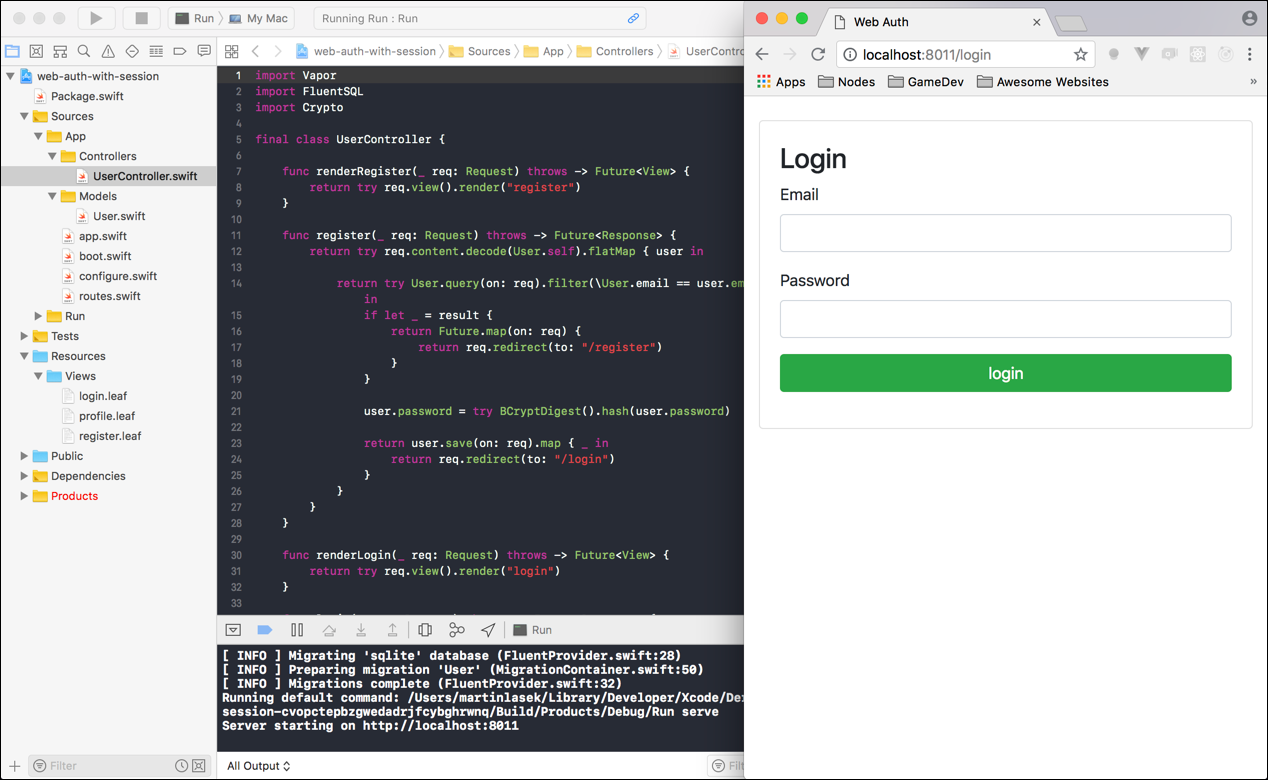
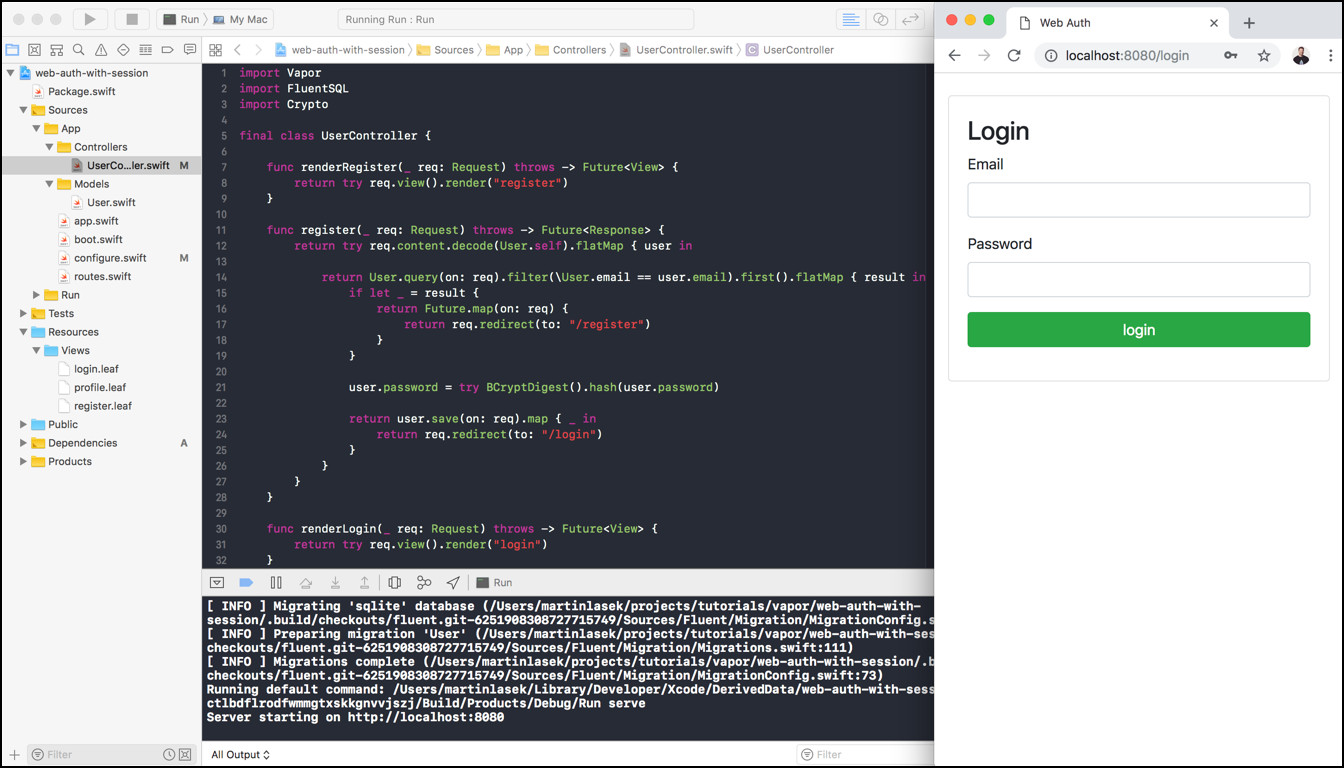
updated port configuration

diff --git a/Sources/App/Controllers/UserController.swift b/Sources/App/Controllers/UserController.swift
@@ -11,7 +11,7 @@ final class UserController {
     func register(_ req: Request) throws -> Future<Response> {
         return try req.content.decode(User.self).flatMap { user in
 
-            return try User.query(on: req).filter(\User.email == user.email).first().flatMap { result in
+            return User.query(on: req).filter(\User.email == user.email).first().flatMap { result in
                 if let _ = result {
                     return Future.map(on: req) {
                         return req.redirect(to: "/register")

diff --git a/Sources/App/configure.swift b/Sources/App/configure.swift
@@ -15,9 +15,6 @@ public func configure(
     try routes(router)
     services.register(router, as: Router.self)
 
-    let myService = NIOServerConfig.default(port: 8011)
-    services.register(myService)
-
     let leafProvider = LeafProvider()
     try services.register(leafProvider)
     try services.register(FluentSQLiteProvider())
